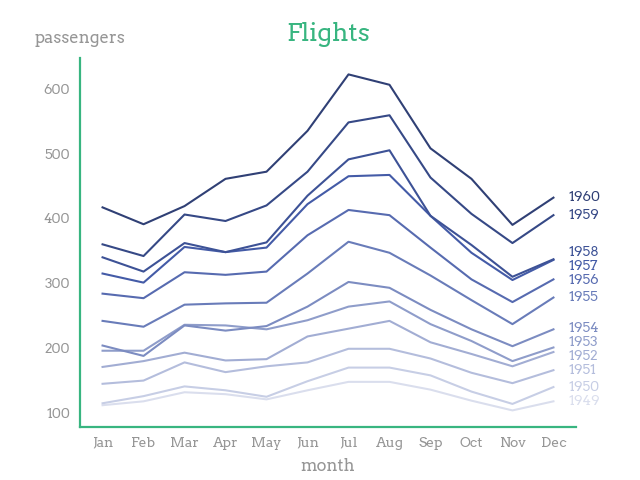
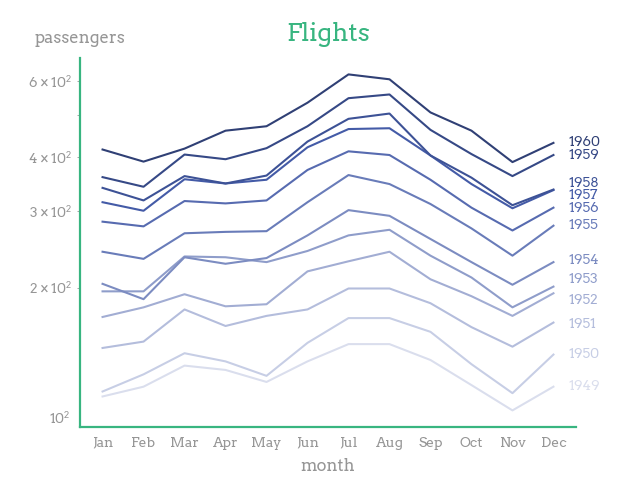
implemented log line legend

diff --git a/rootsstyle/utils.py b/rootsstyle/utils.py
@@ -1,3 +1,4 @@
+import math
 import numpy as np
 import scipy.optimize
 import matplotlib as mpl
@@ -73,11 +74,16 @@ def get_linelegend_ypositions(ax, handles):
     fontsize_inches = mpl.rcParams["font.size"] / 72
     fig_height_inches = plt.gcf().get_size_inches()[1]
     yaxis_height_inches = (ax.get_position().y1 - ax.get_position().y0) * fig_height_inches
-    yaxis_range = ax.get_ylim()[1] - ax.get_ylim()[0]
+    if ax.get_yscale() == "log":
+        yaxis_range = math.log10(ax.get_ylim()[1]) - math.log10(ax.get_ylim()[0])
+    else:
+        yaxis_range = ax.get_ylim()[1] - ax.get_ylim()[0]
     min_distance = fontsize_inches / yaxis_height_inches * yaxis_range
 
     # Find position heights and adjust so that there is no overlap
     last_y = [h.get_ydata()[~np.isnan(h.get_ydata())][-1] for h in handles]
+    if ax.get_yscale() == "log":
+        last_y = [math.log10(y) for y in last_y]
     idx = np.argsort(last_y)
     targets = np.sort(last_y)
     n = len(targets)
@@ -90,6 +96,9 @@ def get_linelegend_ypositions(ax, handles):
     sol = np.cumsum(out) + y0_min + np.arange(n) * min_distance
     idx2 = np.argsort(idx)
     last_y = sol[idx2]
+    if ax.get_yscale() == "log":
+        last_y = [10 ** y for y in last_y]
+    
 
     # Add x-coordinates to get position next to last datapoint
     last_x = [h.get_xdata()[~np.isnan(h.get_xdata())][-1] for h in handles]

diff --git a/tests/test_plots.py b/tests/test_plots.py
@@ -78,16 +78,26 @@ def test_lineplot():
         plt.close()
 
 
-def test_barplot():
-    df_penguins = sns.load_dataset("penguins")
-    df_penguins = df_penguins.groupby(["island", "species"]).size().to_frame('count').reset_index()
+def test_barplot():    
+    df_cars = sns.load_dataset("mpg")
+    df_cars['model_year']="' "+df_cars['model_year'].astype(str)
     with plt.style.context(rootsstyle.style):
-        sns.barplot(x='island', y='count',data=df_penguins, hue='species')
-        rootsstyle.ylabel('Penguins')
-        plt.xlabel('Island')
+        sns.barplot(x='model_year', y='mpg',data=df_cars, hue='origin',  ci=None)
+        rootsstyle.ylabel('mpg')
+        plt.xlabel('model year')
         rootsstyle.legend()
-        plt.savefig(f"{OUTPUT_DIR}/barplot.png")
+        plt.title("Cars")
+        plt.savefig(f"{OUTPUT_DIR}/barplot_mpg.png")
         plt.close()
+
+        sns.barplot(x='model_year', y='horsepower',data=df_cars, hue='origin',  ci=None)
+        rootsstyle.ylabel('horsepower')
+        plt.xlabel('model year')
+        rootsstyle.legend()
+        plt.title("Cars")
+        plt.savefig(f"{OUTPUT_DIR}/barplot_horsepower.png")
+        plt.close()
+
 
 def test_violinplot():
     df_tips = sns.load_dataset("tips")

diff --git a/rootsstyle/cpu.py b/rootsstyle/cpu.py
@@ -1,0 +1,17 @@
+import rootsstyle
+import pandas as pd
+import matplotlib.pyplot as plt
+import seaborn as sns
+
+if __name__=="__main__":
+    df_cpus = pd.read_csv("datasets/cpus.csv")
+    with plt.style.context(rootsstyle.style):
+        g = sns.lineplot(x='year', y='transistors', data=df_cpus, label='transistors\n[1000s]')
+        g = sns.lineplot(x='year', y='watts', data=df_cpus, label='watts')
+        g = sns.lineplot(x='year', y='frequency', data=df_cpus, label='frequency\n[MHz]')
+        g.set_yscale('log')
+        rootsstyle.legend()
+        plt.xlabel('Year')
+        plt.title("48 Years of Microprocessor Trends")
+        plt.savefig(f"images/lineplot_cpus.png")
+        plt.close()
